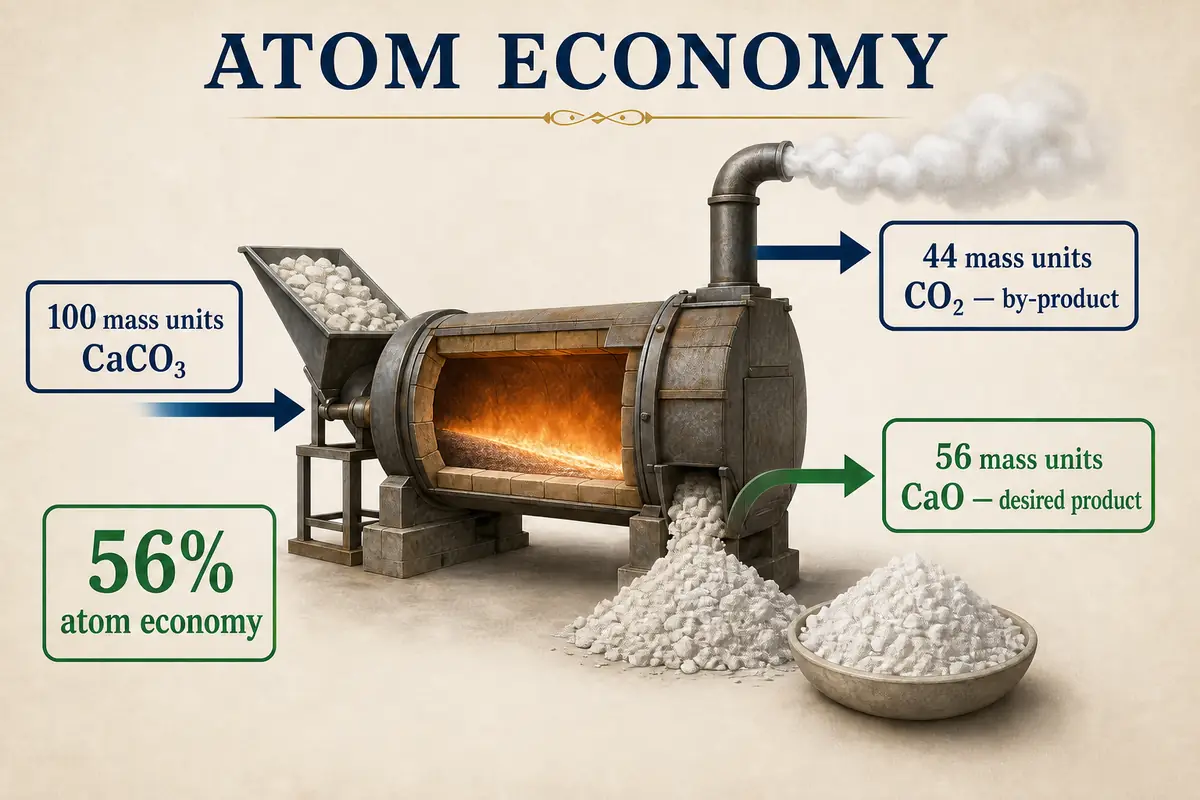
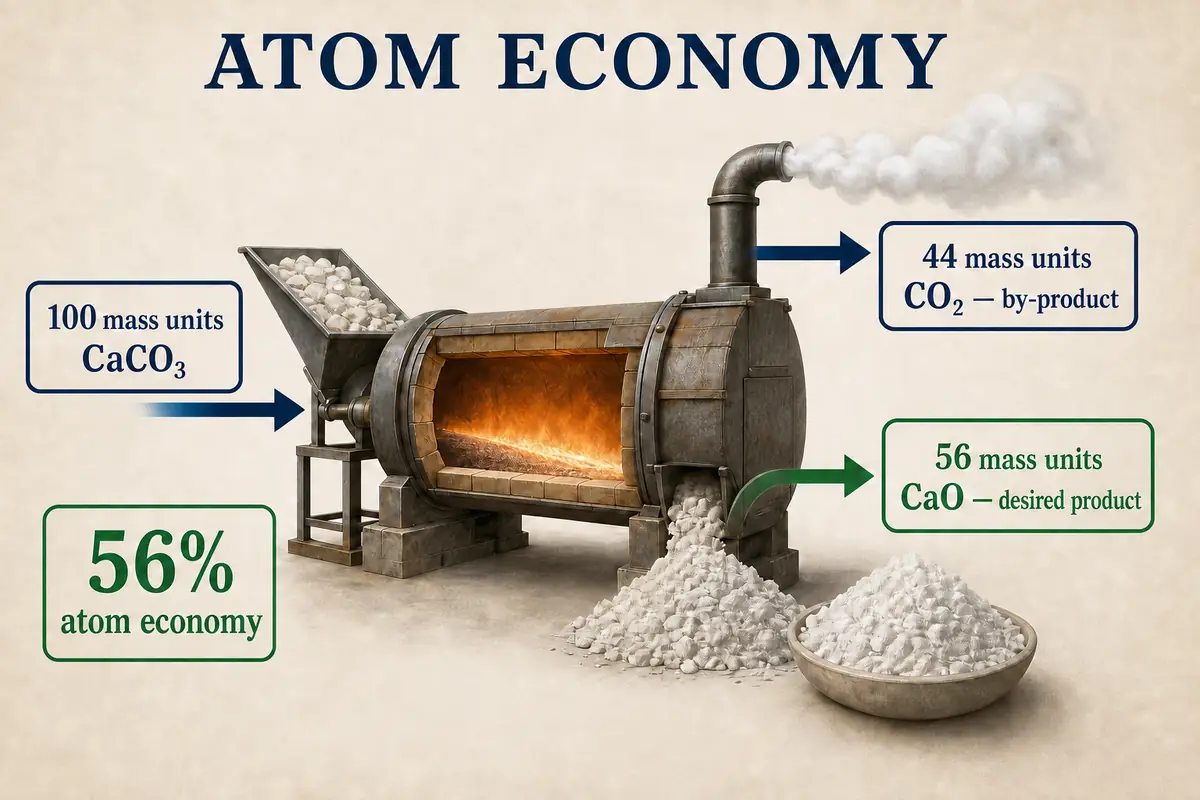
fix: simplify Atom Economy figure styling

diff --git a/teaching-lessons/chemistry/quantitative-chemistry-atom-economy.html b/teaching-lessons/chemistry/quantitative-chemistry-atom-economy.html
@@ -26,7 +26,7 @@ body.ile-light{--bg:#f4f8f6;--panel:#fff;--card:#fff;--card2:#edf6f2;--text:#122
 <section class="ile-section" id="ile-orientation" data-ile-block="orientation" data-ile-block-type="explanation"><h1 class="ile-hero">Atom Economy</h1><div class="ile-meta"><span><strong>GCSE Chemistry</strong> · Quantitative Chemistry</span><span>AQA · Edexcel</span><span>40–50 minutes</span><span class="ile-contract-badge">Content Contract v1</span></div><div class="ile-card"><p class="ile-sub">Central question</p><h2>How much of the reactant mass becomes the product we actually want?</h2><ul class="ile-objectives"><li>Identify desired products and by-products.</li><li>Explain how reactant atoms are allocated between products.</li><li>Calculate atom economy using coefficient × M<sub>r</sub>.</li><li>Connect high atom economy with reduced waste.</li><li>Distinguish atom economy from percentage yield.</li><li class="ile-higher-only"><span class="ile-badge">Higher</span> Evaluate routes using several supplied criteria.</li></ul><div class="ile-foundation-only ile-callout"><strong>Foundation pathway:</strong> identify → total coefficient × M<sub>r</sub> → desired coefficient × M<sub>r</sub> → percentage → interpret.</div></div></section>
 <section class="ile-section" id="ile-video"><h2><span class="ile-num">2</span>Video Lesson</h2><div class="ile-video"><p><strong>Video lesson coming soon.</strong> The complete model, figures and practice are below.</p></div></section>
 <section class="ile-section" id="ile-learn" data-ile-block="core-model" data-ile-block-type="explanation"><h2><span class="ile-num">3</span>Core Lesson</h2><div class="ile-card"><h3>1. Desired product and by-products</h3><p>Atoms are conserved, but a reaction can make more than one product. The <strong>desired product</strong> is the substance we want. Other products are <strong>by-products</strong>. Atom economy measures the proportion of starting-material mass built into the desired product.</p><p class="ile-formula">percentage atom economy = <span aria-label="total relative formula mass of desired product divided by total relative formula mass of all reactants">total M<sub>r</sub> of desired product / total M<sub>r</sub> of all reactants</span> × 100</p></div><div class="ile-card"><h3>2. Four calculation rules</h3><ol><li>Use the <strong>balanced</strong> equation.</li><li>Multiply every M<sub>r</sub> by its coefficient.</li><li>Put only the desired product in the numerator.</li><li>Include every reactant in the denominator.</li></ol><p class="ile-callout"><strong>Equation property:</strong> better filtration may improve percentage yield, but it cannot change atom economy for a fixed balanced equation.</p></div><div class="ile-card ile-higher-only" data-ile-block="route-choice" data-ile-block-type="question"><h3>3. Choosing a route <span class="ile-badge">Higher</span></h3><p>A high atom economy is valuable, but industry may also consider yield, rate, equilibrium position, energy/cost and whether by-products are useful. Compare every supplied criterion before making a supported judgement.</p></div></section>
-<section class="ile-section" id="ile-diagrams"><h2><span class="ile-num">4</span>Representations</h2><p class="ile-sub">The realistic process view builds the chemical story; the exact assessed proportions and coefficient working remain in accessible real text.</p>
+<section class="ile-section" id="ile-diagrams"><h2><span class="ile-num">4</span>Representations</h2>
 <figure class="ile-figure" id="ae-atom-allocation-diagram" data-ile-block="mass-allocation" data-ile-block-type="diagram"><img src="https://staging.inspireacademic.org/assets/images/chemistry/diagrams/quantitative/CHEM-ATOM-PFF-001.webp" alt="Premium illustration of calcium carbonate entering a heated lime kiln and forming 56 mass units of desired calcium oxide plus 44 mass units of carbon dioxide by-product from 100 mass units of reactant." loading="lazy" width="1200" height="800"><figcaption><strong>Where the mass goes.</strong> CaCO<sub>3</sub> → CaO + CO<sub>2</sub>. The 100 reactant mass units are conserved: 56 enter the desired CaO and 44 enter the CO<sub>2</sub> by-product. Atom economy for CaO = 56 ÷ 100 × 100 = <strong>56%</strong>.</figcaption></figure>
 <div class="ile-card" data-ile-block="atom-allocation-explorer" data-ile-block-type="simulation" data-ile-component-id="chemistry-atom-allocation-explorer" data-ile-fallback="#ae-atom-allocation-diagram" aria-label="Atom allocation explorer fallback"><h3>Optional atom-allocation explorer</h3><p id="ileCapabilityState" class="ile-muted">The exact diagram above is the complete non-interactive fallback. A future compatible adapter may add product selection without changing this lesson's chemistry content.</p></div>
 <div class="ile-card ile-calculation-visual" role="group" aria-label="Coefficient times relative mass calculation"><h3>Build the reactant total accurately</h3><div class="ile-calculation-line"><span class="ile-mass-chip">TiO<sub>2</sub><strong>1 × 80 = 80</strong></span><span class="ile-operator">+</span><span class="ile-mass-chip">2Mg<strong>2 × 24 = 48</strong></span><span class="ile-operator">→</span><span class="ile-mass-chip">all reactants<strong>80 + 48 = 128</strong></span></div><p><strong>Desired Ti = 48:</strong> 48 ÷ 128 × 100 = <strong>37.5%</strong>.</p><p class="ile-muted">The written 2 doubles magnesium's mass contribution; it does not change magnesium's A<sub>r</sub>.</p></div>

diff --git a/docs/visual-requests/CHEM-ATOM-PFF-001.md b/docs/visual-requests/CHEM-ATOM-PFF-001.md
@@ -93,6 +93,9 @@ explicitly approves it scientifically and visually at Gate 5.
 - First render rejected because of an unnecessary malformed explanatory line.
 - Corrected render removes that line while preserving all required labels,
   values, formulae, arrows and apparatus.
+- Human review requested a calmer textbook treatment: the decorative gold rule
+  and flourish beneath the title were removed without changing the scientific
+  illustration or labels.
 - Production asset: `CHEM-ATOM-PFF-001.webp`, 1200 × 800, 62,172 bytes.
 - Lesson contains no inline SVG after remediation.
 - Real-text caption states the equation, 100 = 56 + 44 conservation and 56%
